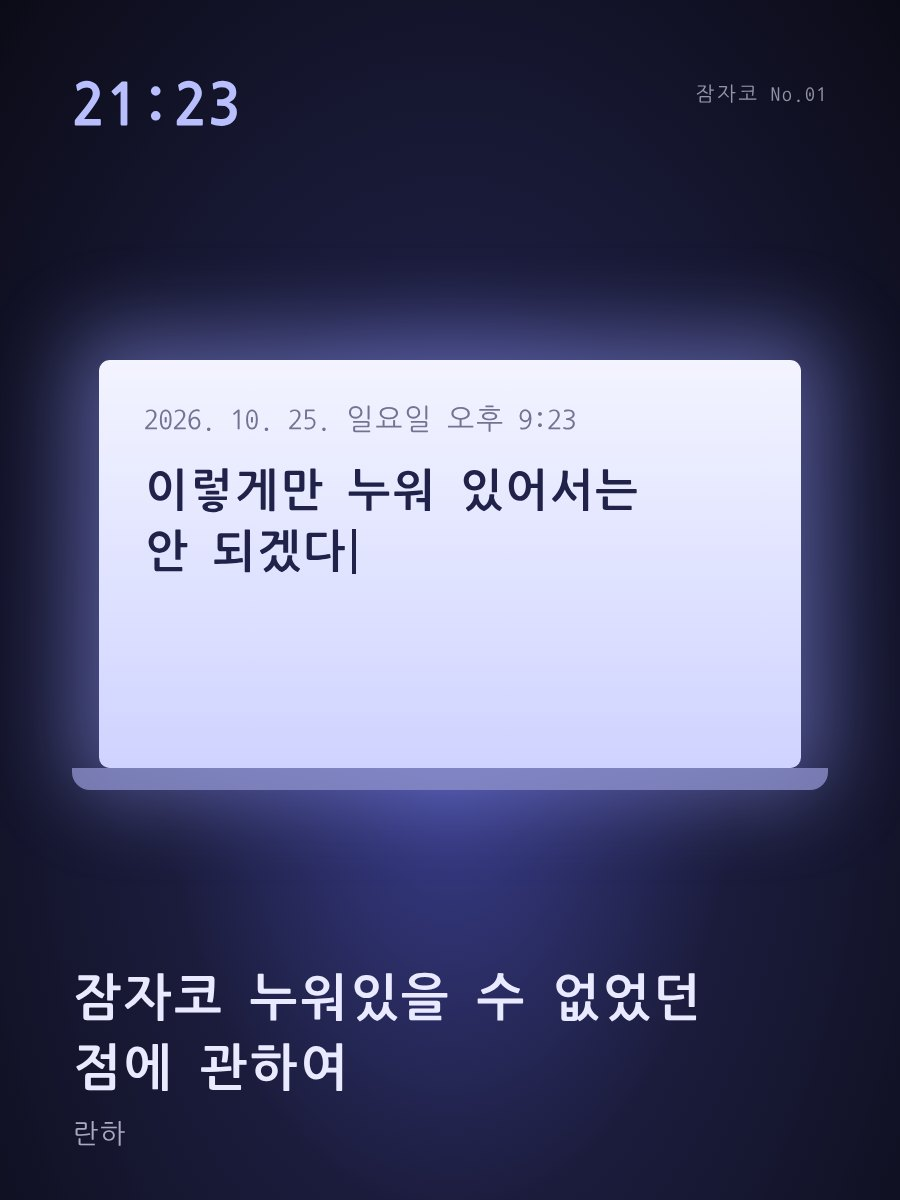
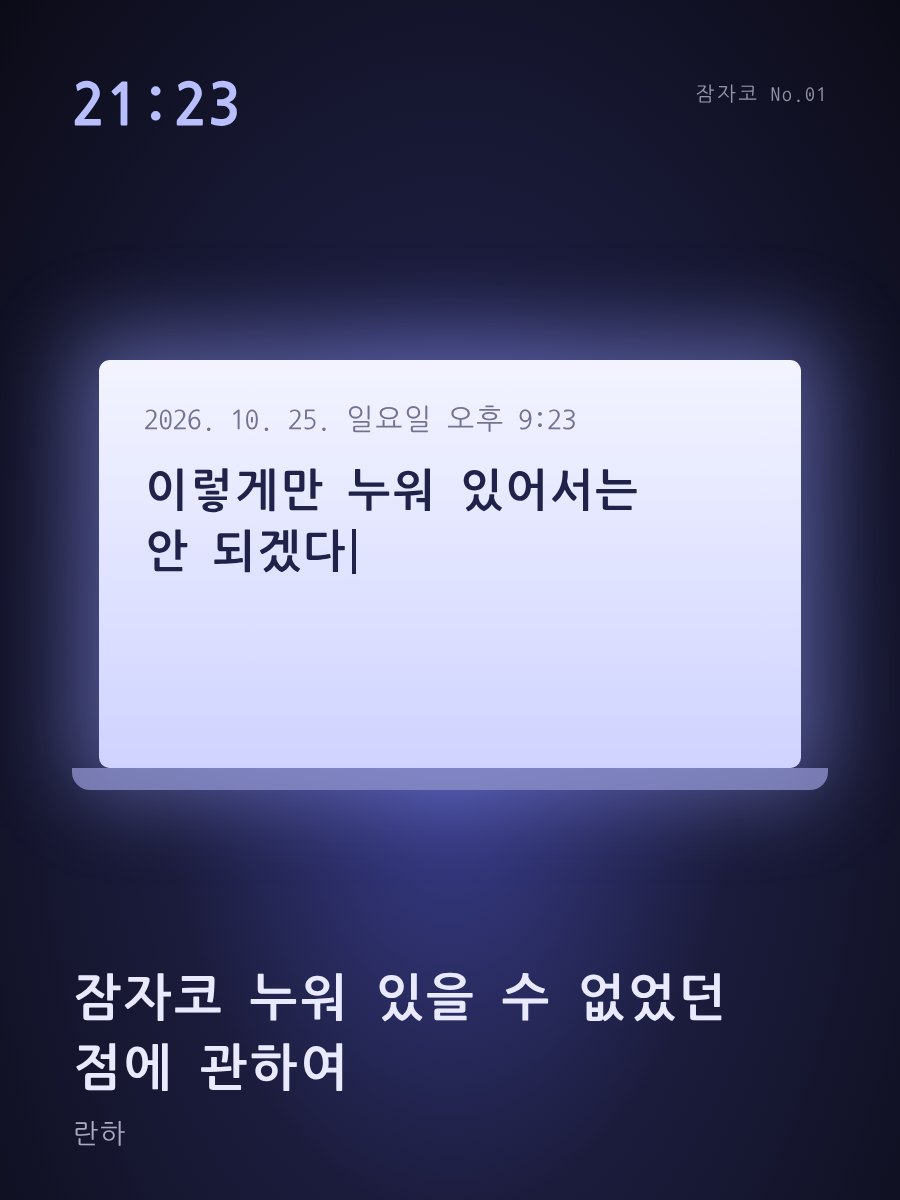
잠자코: No.01 오타 수정, 첫 화면 호별 보기
Claude-Session: https://claude.ai/code/session_0194avCRYRzDb3VVAcuc81Ng

Changed region(s): [[0.3733, 0.8017, 0.8089, 0.8633]]

diff --git a/jamjako/posts.js b/jamjako/posts.js
@@ -104,11 +104,11 @@ var JAMJAKO_POSTS = [
     body: `
       <p>그 무렵.<br>내 삶은 최악이었다. 오래 만난 애인과 헤어지고 약에 취해 쓰러지는 날이 늘었다. 일과 병행하던 대학 성적은 어중간했고 어머니와의 관계는 어긋났다. 무엇 하나 내 탓인 건 없었지만 실패했고 전부 내 몫으로 돌아왔다. 실패하는 것과 실패를 들키는 것은 별개라고 생각했다. 누구도 알게 하고 싶지 않았다. 우는 기분이 들면 웃었다. 명치 부근이 뻐근해도 눈물은 나지 않았다. 우는 기분과 울고 싶은 기분은 다르다. 더 많이 웃었다.</p>
       <p>웃음은.<br>수단이다. 결과가 아니다.</p>
-      <p>남자를 만났다.<br>남자는 회사에서 삼십 분 정도 떨어진 동네에 살았다. 인스타그램으로 알게 된 남자였다. 퇴사 이틀 전 남자가 회사 앞으로 찾아왔다. 하이탑 컨버스에 핏한 데님, 옅은 야상을 걸친 남자는 키가 꽤 컸다. 십 분간의 짧은 만남이었다. 남자는 가볍게 목례할 뿐 한 마디도 하지 않았다. 정적을 채우려고 온갖 애를 쓰는 나를 뚫어져라 바라보기만 했다. 두어시간 후 남자에게 디엠이 왔다.<br>[웃을 때 송곳니가 보이네. 매력 있어.]</p>
-      <p>첫 눈 치고.<br>눈이 참 많이 왔다. 내리기 시작한 눈은 발목 까지 쌓였다. 나와 남자는 술을 마셨다. 만취였다. 담배를 피우던 남자가 내게 눈을 던졌다. 나는 핸드폰을 끄고 남자를 밀쳤다. 넘어진 남자는 눈밭을 굴렀다. 크게 웃었다. 누가 먼저 웃었는지 잘 모르겠다. 그냥, 웃었다. 송곳니가 보였을 것이다.</p>
-      <p>참지마.<br>[살면서 이런 관계들은 지금보다 훨씬 더 많아질 거야. 결국 내 스스로가 단단해져서 자신을 보호하는 방법을 터득해야해. 난 정말 오랫동안 좋은 게 좋은거지라고 생각하면서 스스로를 억눌렀는데 결국 그건 나한테 안 좋은 방향으로 돌아왔어. 이제 내 감정이 어떤지 바로바로 말해. 여기서 중요한 건, 나는 강한 사람이고 무너지지 않을 사람이란 것을 스스로에게 계속 일깨워주는 거야. 그렇지 않으면 자꾸 까먹고 방황하게 되니까.]</p>
-      <p>사귀지 않았으니.<br>헤어졌다는 표현이 어울리는지 모르겠지만 남자와 나는 헤어졌다.<br>남자는 오랜 고시 생활을 그만 두고 회사에 들어갔다. 내 삶은 최악에서 아주 약간 벗어나 차악, 정도가 되었다. 나는 여전히 잘 웃고 솔직함과 거리가 멀다. 우는 기분을 꾹꾹 눌러 담아 삼킨다. 참지 말라는 남자의 말이 희미해져 간다. 나는 참아야 사는 사람이다. 울고 싶을 때 다 울면 누군가 나의 실패를 알아차리겠지.</p>
-      <p>아주 오래 전에.<br>즐거워서 웃었다. 웃고 싶어서 웃었다. 최초의 날이었다. 눈이 참 많이 왔다.</p>
+      <p>남자를 만났다.<br>남자는 회사에서 삼십 분 정도 떨어진 동네에 살았다. 인스타그램으로 알게 된 남자였다. 퇴사 이틀 전 남자가 회사 앞으로 찾아왔다. 하이탑 컨버스에 핏한 데님, 옅은 야상을 걸친 남자는 키가 꽤 컸다. 십 분간의 짧은 만남이었다. 남자는 가볍게 목례할 뿐 한 마디도 하지 않았다. 정적을 채우려고 온갖 애를 쓰는 나를 뚫어져라 바라보기만 했다. 두어 시간 후 남자에게 디엠이 왔다.<br>[웃을 때 송곳니가 보이네. 매력 있어.]</p>
+      <p>첫눈치고.<br>눈이 참 많이 왔다. 내리기 시작한 눈은 발목까지 쌓였다. 나와 남자는 술을 마셨다. 만취였다. 담배를 피우던 남자가 내게 눈을 던졌다. 나는 핸드폰을 끄고 남자를 밀쳤다. 넘어진 남자는 눈밭을 굴렀다. 크게 웃었다. 누가 먼저 웃었는지 잘 모르겠다. 그냥, 웃었다. 송곳니가 보였을 것이다.</p>
+      <p>참지마.<br>[살면서 이런 관계들은 지금보다 훨씬 더 많아질 거야. 결국 내 스스로가 단단해져서 자신을 보호하는 방법을 터득해야 해. 난 정말 오랫동안 좋은 게 좋은 거지라고 생각하면서 스스로를 억눌렀는데 결국 그건 나한테 안 좋은 방향으로 돌아왔어. 이제 내 감정이 어떤지 바로바로 말해. 여기서 중요한 건, 나는 강한 사람이고 무너지지 않을 사람이란 것을 스스로에게 계속 일깨워주는 거야. 그렇지 않으면 자꾸 까먹고 방황하게 되니까.]</p>
+      <p>사귀지 않았으니.<br>헤어졌다는 표현이 어울리는지 모르겠지만 남자와 나는 헤어졌다.<br>남자는 오랜 고시 생활을 그만두고 회사에 들어갔다. 내 삶은 최악에서 아주 약간 벗어나 차악, 정도가 되었다. 나는 여전히 잘 웃고 솔직함과 거리가 멀다. 우는 기분을 꾹꾹 눌러 담아 삼킨다. 참지 말라는 남자의 말이 희미해져 간다. 나는 참아야 사는 사람이다. 울고 싶을 때 다 울면 누군가 나의 실패를 알아차리겠지.</p>
+      <p>아주 오래전에.<br>즐거워서 웃었다. 웃고 싶어서 웃었다. 최초의 날이었다. 눈이 참 많이 왔다.</p>
     `
   },
   {
@@ -121,20 +121,20 @@ var JAMJAKO_POSTS = [
     look: 'upbo',
     tags: ['에세이'],
     body: `
-      <p>1년 동안 체중이 15kg 늘었다. 회사 생활을 시작하며 스트레스를 핑계로 밤 늦게까지 신나게 먹어댄 탓이었다. 먹는 동안은 행복했으나 막상 체중계의 숫자를 보니 꽤 우울했다. 난생 처음 보는 숫자였다. 헬스장에서 PT를 받는 중이었는데도 살이 쪘다. 운동을 하니까 이정도는 먹어도 돼, 라고 생각했기 때문일까. 결과적으로 보면 돈은 돈대로 날리고 살은 살대로 쪘다.</p>
+      <p>1년 동안 체중이 15kg 늘었다. 회사 생활을 시작하며 스트레스를 핑계로 밤늦게까지 신나게 먹어댄 탓이었다. 먹는 동안은 행복했으나 막상 체중계의 숫자를 보니 꽤 우울했다. 난생처음 보는 숫자였다. 헬스장에서 PT를 받는 중이었는데도 살이 쪘다. 운동을 하니까 이 정도는 먹어도 돼, 라고 생각했기 때문일까. 결과적으로 보면 돈은 돈대로 날리고 살은 살대로 쪘다.</p>
       <p>55kg이었던 내가 70kg이 되기까지 나는 인지를 하지 못했다. 체중이 조금씩 늘어난 탓에 살이 찌는 줄도 몰랐고 몸이 아프지도 않았다. 옷을 원래 펑퍼짐하게 입는 편이라 들어가지 않는 옷도 없었다. 그냥 정신을 차리고 체중계에 올라 보니 70kg이었다. 살이 찌는 건 순식간이구나.</p>
-      <p>생각해보면 나는 모든 일에 둔감했다. 나의 변화와 타인의 변화 모두에. 누가 누구와 사귄다는 소식을 그들이 헤어지고 나서야 알았고, 누가 누구와 싸웠다는 소식을 그들이 화해하고 나서야 알았다. 항상 반박자, 아니 두세 박자 이상은 늦었다. 세상 일은 순식간이었다. 친구들은 내가 그런 것에 관심이 없기 때문이라고 말했다. 어느 정도 맞는 것 같았다. 뒤늦게 소식을 접해도 서운하지 않았다. 그냥 그렇구나, 하고 지나갈 뿐 정보에서 소외 당했다는 느낌도 들지 않았다. 사람이 모든 것을 다 알 필요는 없지 않나. 그렇게 나는 늘 늦는 사람, ‘그런 것’에는 관심 없는 사람이 되었다.</p>
-      <p>헬스는 그만두었다. 나에게 맞지 않는 운동 같았다. 너무 비쌌고, 선생님과 끊임 없이 말을 해야 했다. 내가 무슨 일을 하는지, 무엇을 먹는지, 일정이 어떻게 되는지. 알려주고 싶지 않은 정보를 선생님에게 계속 알려야 했다. 어색한 공기를 헤쳐나가기 위한 것 치고는 부담스러웠다. 선생님이 나에 대해 물어오면 나도 예의상 선생님의 일상이 궁금한 척 하며 그에게 마음에도 없는 질문을 했다. 나는 그런 것엔 전혀 관심이 없는데. 그래서 그만두었다.</p>
-      <p>대신 요가를 시작했다. 이효리가 에그이즈커밍에 방문해서 직장인들에게 요가를 가르치는 영상을 유튜브에서 보고 이런 운동이라면 나도 할 수 있겠다 싶었다. 마침 집에서 가까운 곳에 국내 최연소 공인 선생님이 운영하는 요가원이 있었다. 조잡한 전단지와 세일, 프로모션에 찌들지 않은 – 그래봤자 수업료를 받고 장사를 하는 곳이라고 한다면 할 말 없지만 – 정말 고수들만 다닐 것 같은 작고 단란한 요가원이었다. 아침 7시에 요가원에 가면 나는 사우나에 온 것 같았다. 그곳은 후끈했고 거친 숨소리로 가득했다. 나는 선생님이 알려주는 동작을 따라하며 땀을 뻘뻘 흘렸다. 코로 숨을 쉬라는 말에 입술을 앙 다물고 코로 거친 숨을 내뱉었다. 고전 영화에서 본, 끓는 주전자에서 나는 것만 같은 불길한 소리가 코에서 났다.</p>
-      <p>선생님은 수련생들에게 어려운 동작을 시키며 많이 아프고 고통스러울 테지만 그럴수록 고통을 잊고 호흡에 집중하라고 했다. 미간이 찌푸려지고 짜증도 날테지만 그래도 참으라고 했다. 그게 모두 자신의 카르마라고. 카르마. 업보라는 뜻이었다. 무엇에 대한 업보일까. 코로 숨을 내뱉으며 생각했다. 내가 무엇을 잘못했길래 돈을 내고 이런 고통을 견디고 있지. 나의 지난 삶을 모조리 되돌아보며 도서관에서 없어진 책을 찾는 것처럼 기억을 뒤졌다. 순간의 즐거움만 생각하고 자극적인 음식을 먹어치운 것에 대한 업보일까? 헬스 선생님과 스몰토크를 하지 못한 것에 대한 업보일까? 친구들의 연애 소식을 몰랐던 것에 대한 업보일까? 그래 이거다. 세상 일에 관심 갖지 않고 무심했던 것에 대한 업보인 것 같다. 내가 흘려보냈던 ‘그런 것’들이 나에게로 돌아와 고통을 주고 있었다.</p>
-      <p>호흡에 집중하면 어느새 편안해지고 카르마에서 벗어나게 된다고 선생님이 분명 그랬는데 나는 숨을 내뱉으면 내뱉을수록 짜증이 났다. 선생님이 미워졌고 선생님의 이마에 꿀밤을 때리고 싶어졌다. 나와 한 살 밖에 차이가 안나는 국내 최연소 공인 선생님의 이마에. 언젠가는 그 꿀밤도 나에게 카르마로 돌아오겠지. 나는 코로 길게 숨을 내쉬며 사지가 늘어나는 고통을 느꼈다.</p>
+      <p>생각해보면 나는 모든 일에 둔감했다. 나의 변화와 타인의 변화 모두에. 누가 누구와 사귄다는 소식을 그들이 헤어지고 나서야 알았고, 누가 누구와 싸웠다는 소식을 그들이 화해하고 나서야 알았다. 항상 반 박자, 아니 두세 박자 이상은 늦었다. 세상일은 순식간이었다. 친구들은 내가 그런 것에 관심이 없기 때문이라고 말했다. 어느 정도 맞는 것 같았다. 뒤늦게 소식을 접해도 서운하지 않았다. 그냥 그렇구나, 하고 지나갈 뿐 정보에서 소외당했다는 느낌도 들지 않았다. 사람이 모든 것을 다 알 필요는 없지 않나. 그렇게 나는 늘 늦는 사람, ‘그런 것’에는 관심 없는 사람이 되었다.</p>
+      <p>헬스는 그만두었다. 나에게 맞지 않는 운동 같았다. 너무 비쌌고, 선생님과 끊임없이 말을 해야 했다. 내가 무슨 일을 하는지, 무엇을 먹는지, 일정이 어떻게 되는지. 알려주고 싶지 않은 정보를 선생님에게 계속 알려야 했다. 어색한 공기를 헤쳐 나가기 위한 것치고는 부담스러웠다. 선생님이 나에 대해 물어오면 나도 예의상 선생님의 일상이 궁금한 척하며 그에게 마음에도 없는 질문을 했다. 나는 그런 것엔 전혀 관심이 없는데. 그래서 그만두었다.</p>
+      <p>대신 요가를 시작했다. 이효리가 에그이즈커밍에 방문해서 직장인들에게 요가를 가르치는 영상을 유튜브에서 보고 이런 운동이라면 나도 할 수 있겠다 싶었다. 마침 집에서 가까운 곳에 국내 최연소 공인 선생님이 운영하는 요가원이 있었다. 조잡한 전단지와 세일, 프로모션에 찌들지 않은 – 그래봤자 수업료를 받고 장사를 하는 곳이라고 한다면 할 말 없지만 – 정말 고수들만 다닐 것 같은 작고 단란한 요가원이었다. 아침 7시에 요가원에 가면 나는 사우나에 온 것 같았다. 그곳은 후끈했고 거친 숨소리로 가득했다. 나는 선생님이 알려주는 동작을 따라 하며 땀을 뻘뻘 흘렸다. 코로 숨을 쉬라는 말에 입술을 앙다물고 코로 거친 숨을 내뱉었다. 고전 영화에서 본, 끓는 주전자에서 나는 것만 같은 불길한 소리가 코에서 났다.</p>
+      <p>선생님은 수련생들에게 어려운 동작을 시키며 많이 아프고 고통스러울 테지만 그럴수록 고통을 잊고 호흡에 집중하라고 했다. 미간이 찌푸려지고 짜증도 날 테지만 그래도 참으라고 했다. 그게 모두 자신의 카르마라고. 카르마. 업보라는 뜻이었다. 무엇에 대한 업보일까. 코로 숨을 내뱉으며 생각했다. 내가 무엇을 잘못했길래 돈을 내고 이런 고통을 견디고 있지. 나의 지난 삶을 모조리 되돌아보며 도서관에서 없어진 책을 찾는 것처럼 기억을 뒤졌다. 순간의 즐거움만 생각하고 자극적인 음식을 먹어치운 것에 대한 업보일까? 헬스 선생님과 스몰토크를 하지 못한 것에 대한 업보일까? 친구들의 연애 소식을 몰랐던 것에 대한 업보일까? 그래 이거다. 세상일에 관심 갖지 않고 무심했던 것에 대한 업보인 것 같다. 내가 흘려보냈던 ‘그런 것’들이 나에게로 돌아와 고통을 주고 있었다.</p>
+      <p>호흡에 집중하면 어느새 편안해지고 카르마에서 벗어나게 된다고 선생님이 분명 그랬는데 나는 숨을 내뱉으면 내뱉을수록 짜증이 났다. 선생님이 미워졌고 선생님의 이마에 꿀밤을 때리고 싶어졌다. 나와 한 살밖에 차이가 안 나는 국내 최연소 공인 선생님의 이마에. 언젠가는 그 꿀밤도 나에게 카르마로 돌아오겠지. 나는 코로 길게 숨을 내쉬며 사지가 늘어나는 고통을 느꼈다.</p>
     `
   },
   {
     issue: 1,
     author: '권노은',
     title: '부패로의 초대',
-    subtitle: '에세이 필름 <광합성하는 죽음>(차재민,2024)에 관한 리뷰',
+    subtitle: '에세이 필름 <광합성하는 죽음>(차재민, 2024)에 관한 리뷰',
     date: '2026. 10. 27',
     thumb: 'jamjako-01-03.jpg',
     cover: 'jamjako-01-03-cover.jpg',
@@ -143,16 +143,16 @@ var JAMJAKO_POSTS = [
     body: `
       <p>상한 과일을 먹었다. 엄마가 보낸 멜론이었다. 나는 여섯 시부터 열 시까지 학과 사무실에서 근무한 적이 있다. 학부 수업이 끝나고 바로 대학원 건물에 있는 사회복지학과 사무실로 출근했다. 야간 수업 시작 전에 강의실을 미리 점검하는 일을 맡았다. 저녁을 먹을 수 없었다. B2층부터 9층까지, 건물을 한 바퀴 돌고 나면 사무실에서 냄새 없는 간편식만 공개적으로 먹을 수 있었다. 내 자리가 사무실 중앙의 공용 테이블이었기 때문이다. 이 말을 들은 엄마는 고급스러운 멜론을 보냈다. 촉촉한 멜론은 먹기 좋게 잘려 있었다.</p>
       <p>혼자 사는 나에게 개수가 지나쳤다. 멜론을 그리 좋아하지도 않는다. 매일 먹어야 할 것을 그냥 두었다. 하루는 ‘오렌지듀 멜론’에서 탄산이 느껴졌는데 새로운 품종에서 나는 맛인 줄 알았다. 하지만 이 주가 지나자 오싹했다. 통이 빵빵하게 부풀어 있었다. 뚜껑을 여니 탄산감이 코를 찔렀다. 빛깔은 아직 생생했다. 나는 사이다 넣은 화채를 떠올렸다. 참고 먹었다.</p>
-      <p>밀봉된 과일이 발효를 시작하면 당분이 알코올과 이산화탄소로 분해되며 탄산감이 생긴다. 발효는 부패의 시작이다. 차재민 감독의 &lt;광합성하는 죽음&gt;은 우리가 모르는 사이에 고요히 이루어지는 부패 과정을 카메라에 담는다. 영화는 출처 모를 빛이 공간 곳곳에 닿는 이미지로 시작한다. 알려져 있듯, 이 영화의 단초는 일본의 불교 회화인 ‘구상도(九相図/九想図)’이다. 들판에 놓인 시체가 썩어가는 아홉 가지 단계를 그린 이 그림은 매장 관습이 일반적이지 않았던 시기에 그려졌다. 시체는 빛 아래에서 흙으로 돌아간다. 그림에서는 빛이 있는 곳에 시체가 놓인다. 구상도의 또다른 재현, 명상 이미지인 &lt;광합성하는 죽음&gt;의 빛은 몸 둘 대상을 자유롭게 찾아 다닌다.</p>
+      <p>밀봉된 과일이 발효를 시작하면 당분이 알코올과 이산화탄소로 분해되며 탄산감이 생긴다. 발효는 부패의 시작이다. 차재민 감독의 &lt;광합성하는 죽음&gt;은 우리가 모르는 사이에 고요히 이루어지는 부패 과정을 카메라에 담는다. 영화는 출처 모를 빛이 공간 곳곳에 닿는 이미지로 시작한다. 알려져 있듯, 이 영화의 단초는 일본의 불교 회화인 ‘구상도(九相図/九想図)’이다. 들판에 놓인 시체가 썩어가는 아홉 가지 단계를 그린 이 그림은 매장 관습이 일반적이지 않았던 시기에 그려졌다. 시체는 빛 아래에서 흙으로 돌아간다. 그림에서는 빛이 있는 곳에 시체가 놓인다. 구상도의 또 다른 재현, 명상 이미지인 &lt;광합성하는 죽음&gt;의 빛은 몸 둘 대상을 자유롭게 찾아다닌다.</p>
       <p>이러한 뒤집음은 ‘부패로의 초대’라는 영화의 컨셉으로 들어가는 열쇠다. 자연의 순리를 따르던 과정이 주체적인 실험의 결과로 변화하기 때문이다. 제단 같은 나무상자 위에서 유리관을 덮은 과실들은 습기나 건조로 상해간다. 힘을 잃나 싶더니 벌레가 모여들고 균사체가 포진한 점프 숏이 이어진다. 차재민 감독은 2024년 작 &lt;더미 더미&gt;에서 문드러지는 음식물을 브론즈 조각으로 재현한다. 부패 과정은 대상 안에 응축되고 고정된다. 그러나 &lt;광합성하는 죽음&gt;의 과실들은 그 과정을 뿜으며 유리관 너머의 생물들을 초대한다. 나무 상자로 새어 나온 액체와 냄새는 초파리와 구더기를 부르고 전시를 보는 스크린 안팎의 관객도 끌어들인다. 서사와 시선의 주도권을 썩어가는 실험체가 갖고 있다. 보는 행위는 이처럼 수동적이다. 대상이 죽음을 보여주기 때문에 죽음을 볼 수 있다. 무엇을 볼 것인가를 결정하는 건 대상이다.</p>
       <figure class="jam-photo"><img src="jamjako-01-03-still1.jpg" alt="광합성하는 죽음 스틸"><figcaption>사진 | &lt;광합성하는 죽음&gt; 작품 스틸</figcaption></figure>
-      <p>이 영화는 또다른 위계를 만들어내는 실험일까? 그렇지 않다. 영화는 부패가 새로운 대화를 모색하는 과정임을 증명하려한다. 에도 시대 승려는 구상도의 잔상으로 명상했다고 한다. 그림을 보고 돌아와 머릿속에 남은 죽음의 이미지만을 떠올리며 수련하는 것이다. 이미지를 소유하지 않을 때 대상과 주체 간의 정신적 대화가 이루어진다.</p>
+      <p>이 영화는 또 다른 위계를 만들어내는 실험일까? 그렇지 않다. 영화는 부패가 새로운 대화를 모색하는 과정임을 증명하려 한다. 에도 시대 승려는 구상도의 잔상으로 명상했다고 한다. 그림을 보고 돌아와 머릿속에 남은 죽음의 이미지만을 떠올리며 수련하는 것이다. 이미지를 소유하지 않을 때 대상과 주체 간의 정신적 대화가 이루어진다.</p>
       <p>&lt;광합성하는 죽음&gt;은 그 돌파구를 ‘듣는 일’에서 찾는다. 영화 전체를 감싸는 한 목소리가 있다. 미술 평론가 ‘코노 유키’의 삶에서 출발한 내포 화자 ‘히카루’는 일어와 한국어를 번역하며 작가인 ‘재민’과 구상도를 이야기한다. 그들은 그림을 보러 갈 날을 기약하고 있다. 그러나 ‘히카루’는 ‘재민’의 궁금증에 해답을 주지 않고 영화는 끝내 구상도를 보여주지 않는다.</p>
-      <p>결과값이 생략된 대화는 관객을 기다림의 시간에 놓아둔다. &lt;광합성하는 죽음&gt;은 완결의 카타르시스를 참으며 정서적 대화의 순간을 담는다. 관람은 미루고 유리관 옆에서 졸고 있는 사람, 적당한 거리를 두는 사람, 여러 사람이 섞인 전시 공간. 영화는 이를 다양한 쇼트로 보여준다. 자유로운 공백 속에서 그들은 생사를 목격한다. 부패하는 과실과 관람객은 종이컵 전화처럼 연결되어 있다. 투명한 창을 사이에 둔 이 장난감은 연결 대상과 원리에 미스터리가 없다. 위계 없이 종이컵에 귀를 댄 채 기다리는 일만으로 설레인다. 실 너머에서 무슨 말이 들릴지.</p>
+      <p>결과값이 생략된 대화는 관객을 기다림의 시간에 놓아둔다. &lt;광합성하는 죽음&gt;은 완결의 카타르시스를 참으며 정서적 대화의 순간을 담는다. 관람은 미루고 유리관 옆에서 졸고 있는 사람, 적당한 거리를 두는 사람, 여러 사람이 섞인 전시 공간. 영화는 이를 다양한 쇼트로 보여준다. 자유로운 공백 속에서 그들은 생사를 목격한다. 부패하는 과실과 관람객은 종이컵 전화처럼 연결되어 있다. 투명한 창을 사이에 둔 이 장난감은 연결 대상과 원리에 미스터리가 없다. 위계 없이 종이컵에 귀를 댄 채 기다리는 일만으로 설렌다. 실 너머에서 무슨 말이 들릴지.</p>
       <figure class="jam-photo"><img src="jamjako-01-03-still2.jpg" alt="광합성하는 죽음 스틸"><figcaption>사진 | &lt;광합성하는 죽음&gt; 작품 스틸</figcaption></figure>
       <p>과실들은 죽어가면서 살아간다. 그것과 우리는 얼마나 다른 상태일까. 우리에겐 어떤 소통 방식이 필요할까. 많은 경우에 말은 이해가 아닌 오해를 낳는다. 각자의 방식으로 서로를 이해했다고 믿는다. 대화가 끊이지 않는 사람이 있다면……그건 그가 오해를 감내하고 가만히 듣고 있기 때문이 아닐까. 내 안에 오해가 쌓여갈 때, 그래서 눈앞의 상대를 궁금해할 때, 수동적인 보기는 오롯한 듣기가 된다.</p>
       <p>영화와 관객 사이에도 실이 존재한다. 영화는 쏟아지는 빗소리로 엔딩을 낸다. 차재민 감독은 이렇게 말한다. “관객들을 잠시 빗소리 안에 두고 싶었어요. 뭔가를 다 이해하려고 애쓰지 않고 어떤 경외감을 느끼는 순간이랄까요? 그게 보는 행위와 닮아 있다는 작은 대답을 넣어두고 싶었어요.”<sup>1)</sup></p>
-      <p>나는 엄마를 생각한다. 발바닥이 뜨거워. 멜론을 보내기 몇 주 전, 엄마는 불에 타는 듯한 발바닥 때문에 뒤척였다. 찾아보니 신장 기능이 저하되면 갱년기 여성에게 생기는 증상 중 하나였다. 요양 병원의 조리실에서 일하는 엄마는 습기에 발이 상했다. 여름동안 몸에서는 땀이 줄줄 빠져나왔다. 엄마는 참을 수 없을 때까지 참는 사람이다. 나는 족심혈이니 신장이니 알아낸 것을 말해주었다. 엄마가 말했다. 뜨겁고 말지, 뭐. 오늘에야 생각해보니 엄마는 그냥 자신의 말을 듣기를 바랐던 것 같다. 죽음에 관한 명상을 재해석한 이 영화를 거쳐 엄마와의 미래를 상상해본다. 아직은 엄마의 부패가 아닌 발 아래에 따뜻한 물을 가져다두는 그림을 본다.</p>
+      <p>나는 엄마를 생각한다. 발바닥이 뜨거워. 멜론을 보내기 몇 주 전, 엄마는 불에 타는 듯한 발바닥 때문에 뒤척였다. 찾아보니 신장 기능이 저하되면 갱년기 여성에게 생기는 증상 중 하나였다. 요양 병원의 조리실에서 일하는 엄마는 습기에 발이 상했다. 여름 동안 몸에서는 땀이 줄줄 빠져나왔다. 엄마는 참을 수 없을 때까지 참는 사람이다. 나는 족심혈이니 신장이니 알아낸 것을 말해주었다. 엄마가 말했다. 뜨겁고 말지, 뭐. 오늘에야 생각해보니 엄마는 그냥 자신의 말을 듣기를 바랐던 것 같다. 죽음에 관한 명상을 재해석한 이 영화를 거쳐 엄마와의 미래를 상상해본다. 아직은 엄마의 부패가 아닌 발아래에 따뜻한 물을 가져다두는 그림을 본다.</p>
       <div class="jam-notes">
         <p>1) 제17회 DMZ다큐멘터리 &lt;광합성하는 죽음&gt; 관객과의 대화, <a href="https://blog.naver.com/dmzdocs_ff/224014226574" target="_blank" rel="noopener">https://blog.naver.com/dmzdocs_ff/224014226574</a></p>
       </div>
@@ -161,7 +161,7 @@ var JAMJAKO_POSTS = [
   {
     issue: 1,
     author: '란하',
-    title: '잠자코 누워있을 수 없었던 점에 관하여',
+    title: '잠자코 누워 있을 수 없었던 점에 관하여',
     date: '2026. 10. 27',
     thumb: 'jamjako-01-04.jpg',
     cover: 'jamjako-01-04-cover.jpg',
@@ -169,8 +169,8 @@ var JAMJAKO_POSTS = [
     tags: ['에세이'],
     body: `
       <p>인생은 정말 한 치 앞도 알 수 없다는 것이 맞는 것 같다. 2026년 10월 25일 일요일 오후 9시 23분에 노트북을 켜서 갑자기 글을 쓰게 되리라곤 생각도 못 했다.</p>
-      <p>최고은 작가님의 인스타그램 계정을 정확히 언제부터 팔로우했는지도 기억이 나지 않는다. 부끄럽게도 지금까지도 작가님의 책을 읽어본 적도 없다. 어느 날인가 알고리즘을 통해 작가님 계정의 게시글이 몇 번 떴었고, 내가 팔로우하는 퀴어 작가님들도 팔로우하고 있다는 사실과 작가님 계정의 게시글에서 느껴지는 어떤 끌림이 있어서 팔로우 버튼을 눌렀던 기억만이 남아 있다. 아무튼 작가님을 팔로우한 이후로 종종 게시글과 스토리를 봐 오고 있었는데, 여느 날처럼 출근하던 길에 인스타그램 피드를 쭉쭉 내리다가 우연히 창간호 원고 모집 게시글을 올리신 걸 보았다. 그때 만 해도 내가 투고를 해야겠다는 생각은 들지 않았고 다음 피드로 넘겼었다. 지금 생각해 보면 며칠 전이었던 듯하다. 그리고 주말 내내 우울감에 누워만 있던 나는 밥을 먹고 낮잠을 자고 다시 핸드폰 보기를, 무한반복을 하다가 원고 마감이 하루 남았다는 작가님의 스토리를 보고 이렇게만 누워 있어서는 안 되겠다는 생각이 퍼뜩 들어 노트북을 켜게 됐다. 끝없이 엉킨 머릿속을 참을 수 없이 글로 풀고 싶어졌다.</p>
-      <p>초등학생 때, 장래 희망을 써서 학교에 제출할 때마다 내 양손에는 작가와 교사라는 단어가 쥐어졌다. 과학의 날 등등 학교에서 여러 예체능 행사를 열면, 늘 글짓기를 선택했던 걸 보면 글 자체를 좋아했던 나였지만 중학생, 고등학생이 되면서 장래 희망을 쓰는 칸에는 교사가 자리 잡았다. 그러나 지금의 나는 작가도, 교사도 아닌 평범한 직장인이다. 그리고 살면서 처음으로 지난 8월과 9월에 글방 수업을 듣게 되었고, 글방 수업이 끝나고 한 달이 넘은 지금 정말 오랜만에 글을 써내려 가는 기분이 마치 신나서 내달리는 듯하다. 그저, 내 이야기를 타인에게 글로 보여줄 수 있다는 것만으로도 너무 설레는 일이 아닌가 싶다. 글을 쓰고 싶다는 생각은 늘 마음 한구석에 자리 잡고 있었지만, 고통은 창작의 근원이라는 말이 맞는 것 같다. 알고 지낸 지 3년 정도 된 언니를 작년부터 남몰래 좋아하게 되었는데, 점점 마음이 커지고 깊어지다 보니 이 감정을 풀어낼 곳을 찾지 않으면 안 되는 수준이 되었다. 그래서 팔로우하고 있던 다른 작가님의 글방 수업 모집 공지가 올라오자마자 후다닥 등록해 버렸다. 공교롭게도 글쓰기 수업을 듣던 중에 언니와 멀어지게 되었고, 끝없이 휘몰아치는 감정을 날 것 그대로 가득 담아 열심히 글을 쓰고 과제를 제출했다. 그랬더니 처음 글쓰기 수업을 들었을 때보다 훨씬 더 글이 풍성해졌다는 좋은 피드백을 받았다. 웃음도 나지만 눈물도 나는 이런 것이 삶의 묘미일까?</p>
+      <p>최고은 작가님의 인스타그램 계정을 정확히 언제부터 팔로우했는지도 기억이 나지 않는다. 부끄럽게도 지금까지도 작가님의 책을 읽어본 적도 없다. 어느 날인가 알고리즘을 통해 작가님 계정의 게시글이 몇 번 떴었고, 내가 팔로우하는 퀴어 작가님들도 팔로우하고 있다는 사실과 작가님 계정의 게시글에서 느껴지는 어떤 끌림이 있어서 팔로우 버튼을 눌렀던 기억만이 남아 있다. 아무튼 작가님을 팔로우한 이후로 종종 게시글과 스토리를 봐 오고 있었는데, 여느 날처럼 출근하던 길에 인스타그램 피드를 쭉쭉 내리다가 우연히 창간호 원고 모집 게시글을 올리신 걸 보았다. 그때만 해도 내가 투고를 해야겠다는 생각은 들지 않았고 다음 피드로 넘겼었다. 지금 생각해 보면 며칠 전이었던 듯하다. 그리고 주말 내내 우울감에 누워만 있던 나는 밥을 먹고 낮잠을 자고 다시 핸드폰 보기를, 무한반복을 하다가 원고 마감이 하루 남았다는 작가님의 스토리를 보고 이렇게만 누워 있어서는 안 되겠다는 생각이 퍼뜩 들어 노트북을 켜게 됐다. 끝없이 엉킨 머릿속을 참을 수 없이 글로 풀고 싶어졌다.</p>
+      <p>초등학생 때, 장래 희망을 써서 학교에 제출할 때마다 내 양손에는 작가와 교사라는 단어가 쥐어졌다. 과학의 날 등등 학교에서 여러 예체능 행사를 열면, 늘 글짓기를 선택했던 걸 보면 글 자체를 좋아했던 나였지만 중학생, 고등학생이 되면서 장래 희망을 쓰는 칸에는 교사가 자리 잡았다. 그러나 지금의 나는 작가도, 교사도 아닌 평범한 직장인이다. 그리고 살면서 처음으로 지난 8월과 9월에 글방 수업을 듣게 되었고, 글방 수업이 끝나고 한 달이 넘은 지금 정말 오랜만에 글을 써 내려가는 기분이 마치 신나서 내달리는 듯하다. 그저, 내 이야기를 타인에게 글로 보여줄 수 있다는 것만으로도 너무 설레는 일이 아닌가 싶다. 글을 쓰고 싶다는 생각은 늘 마음 한구석에 자리 잡고 있었지만, 고통은 창작의 근원이라는 말이 맞는 것 같다. 알고 지낸 지 3년 정도 된 언니를 작년부터 남몰래 좋아하게 되었는데, 점점 마음이 커지고 깊어지다 보니 이 감정을 풀어낼 곳을 찾지 않으면 안 되는 수준이 되었다. 그래서 팔로우하고 있던 다른 작가님의 글방 수업 모집 공지가 올라오자마자 후다닥 등록해 버렸다. 공교롭게도 글쓰기 수업을 듣던 중에 언니와 멀어지게 되었고, 끝없이 휘몰아치는 감정을 날것 그대로 가득 담아 열심히 글을 쓰고 과제를 제출했다. 그랬더니 처음 글쓰기 수업을 들었을 때보다 훨씬 더 글이 풍성해졌다는 좋은 피드백을 받았다. 웃음도 나지만 눈물도 나는 이런 것이 삶의 묘미일까?</p>
       <p>일단 현재 내 우울의 근원은 짝사랑 실패와 동시에 현실적인 막막함이다. 사실 나는 내가 생각하기에 연애하면 안 되는 사람이다. 내 이름 위에 얹힌 수많은 대출과 노후 대비가 전혀 되어 있지 않은 홀어머니를 모시고 사는 나를 보고, 과연 누가 좋아할 수 있을까? 더구나 점점 병원 갈 일이 많아진 엄마를 바라보고 있자니 지난 8월부터 안 좋은 생각들에 잡아먹히는 듯하다. 영원한 건 없으니 이 힘든 시간들도 분명 지나갈 것이지만, 마냥 가만히 기다리기엔 일분일초가 너무 괴롭다. 이럴수록 내가 무엇을 좋아하고 싫어하는지도 생각해 보고, 나 자신에게 집중하는 시간을 가지며 나를 위해 바로 서야 한다는 걸 안다. 회사에서도, 엄마 앞에서도 평소와 다름없이 웃으며 지내다가도, 출퇴근길이나 집에 혼자 있을 때만 드러나는 내 본래 표정. 출퇴근길 버스 안에서 창밖을 바라보며 노래를 듣고 있으면 언니가 생각나 울었고, 퇴근하고 집에 오면 언제쯤 숨통이 트일까 싶은 내 현실이 막막해서 울었다. 미래의 내가 지금의 나를 생각하며 ‘그땐 그랬지’ 하고 옅게 미소 짓는 날이 올까?</p>
       <p>생각해 보면, 좋아했던 언니와 운 좋게 연인이 되었더라도 나의 현실적인 결점 앞에 부딪혔을 것을 생각하면 오히려 지금 이렇게 된 게 잘된 일일까 싶기도 하다. 그저 지금은, 왜 그렇게 감정이 앞서서 좋아하는 마음을 숨길 줄을 몰랐던 것인지, 과거의 내가 원망스럽다. 일찌감치 내 마음을 눈치챈 언니가 나에게 그 누구와도 연애 생각이 없으며, 내가 친구로서 좋다고 선을 그었음에도 왜 그 후로도 마음을 접지 않았는지. 첫 연애가 끝난 후 7년 만에 관심사와 생각의 결이 나와 너무나도 비슷한 누군가를 만나게 되어 반가움과 벅참이 커서였을까? 좋아하는 마음을 조금은 참을 순 없었을까. 인연이라면 다시 만나겠지, 막연한 말을 이불 삼아 덮고 있자니 숨이 막혔다. 내가 주인공인 이 드라마는 어떤 결말로 끝이 날까? 수많은 영화와 드라마의 결말을 미리 알 수 있는 세상이지만 삶의 결말은 여전히 알 수 없다는 점은, 그래서 인생이구나 싶기도 하다.</p>
     `
@@ -186,7 +186,7 @@ var JAMJAKO_POSTS = [
     tags: ['에세이', '페미니즘'],
     body: `
       <p class="jam-sec">0.</p>
-      <p>“화장실을 또 가?“ 남자들과 놀면 늘 하게 되는 말 중에 하나였다. 내가 유독 잘 참는 것인지, 그들이 유독 못 참는 것인지 늘 궁금했다. 자꾸만 자리를 뜨는 남자들을 보며 장난삼아 “남자애들은 오줌 참으라고 안 혼나고 커서 그래.”라고 말하고는 했는데 사실 마음 어느 한 곳에서는 그 가설을 입증해 보고 싶었다. 생물학적인 차이가 있는 것일까, 아니면 그냥 내 주변 남자들만 유독 자주 가는 것일까, 혹은 정말 여성과 다르게 길러졌기 때문일까.</p>
+      <p>“화장실을 또 가?” 남자들과 놀면 늘 하게 되는 말 중에 하나였다. 내가 유독 잘 참는 것인지, 그들이 유독 못 참는 것인지 늘 궁금했다. 자꾸만 자리를 뜨는 남자들을 보며 장난삼아 “남자애들은 오줌 참으라고 안 혼나고 커서 그래.”라고 말하고는 했는데 사실 마음 어느 한 곳에서는 그 가설을 입증해 보고 싶었다. 생물학적인 차이가 있는 것일까, 아니면 그냥 내 주변 남자들만 유독 자주 가는 것일까, 혹은 정말 여성과 다르게 길러졌기 때문일까.</p>
       <p class="jam-sec">1.</p>
       <p>찾아본 결과는 정반대였다. 증상 없는 미국 성인 18~68세를 나이·인종으로 짝지어 24시간 배뇨일지를 비교한 연구에서, <b>여성이 남성보다 더 자주 소변을 봤다</b> (p=0.006). 남성은 마시는 양이 더 많았고(p&lt;0.001), 한 번에 보는 양도 더 많았다(p=0.04). 마신 물 1리터당 화장실 횟수도 여성이 더 많았다.[1]</p>
       <p>그런데 왜 나는 그렇게 느꼈을까? 몸만 놓고 보면 여자가 더 자주 가야 하는 쪽에 가깝다. 더 적게 마시고, 더 자주 가야 하는 구조인 것이다. 그런데도 여자가 덜 가는 것처럼 보인다면 사실 정말 ‘참고’ 있는 것은 아닐까?</p>

diff --git a/jamjako/index.html b/jamjako/index.html
@@ -256,8 +256,8 @@
       <input type="search" id="magSearch" placeholder="검색" aria-label="잠자코 글 검색" oninput="renderMag()">
     </label>
     <div class="view-btns" role="tablist">
-      <button class="view-btn mag-view-btn active" data-view="all" onclick="setMagView('all')">전체</button>
-      <button class="view-btn mag-view-btn" data-view="issue" onclick="setMagView('issue')">호별</button>
+      <button class="view-btn mag-view-btn" data-view="all" onclick="setMagView('all')">전체</button>
+      <button class="view-btn mag-view-btn active" data-view="issue" onclick="setMagView('issue')">호별</button>
       <button class="view-btn mag-view-btn" data-view="author" onclick="setMagView('author')">작가별</button>
     </div>
   </div>
@@ -309,7 +309,7 @@
 
   document.addEventListener('keydown', e => { if (e.key === 'Escape') closeModal(); });
 
-  let magView = 'all';
+  let magView = 'issue';
 
   function pad2(n) { return String(n).padStart(2, '0'); }
   function esc(s) {
